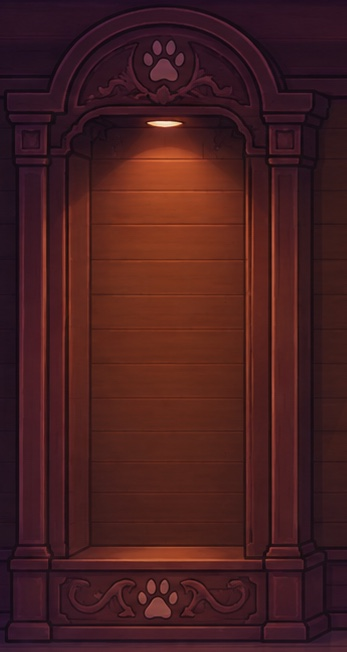
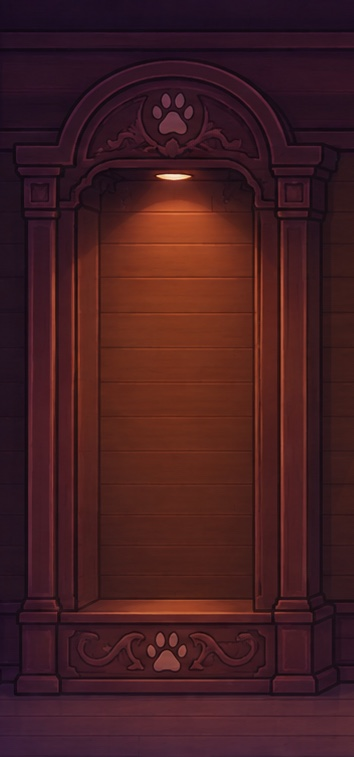
Remove backdrop-filter blur from ingredient/cocktail cards, update side arch bg
- backdrop-filter: blur(10px) removed from BarStorage's ingrCard and all
  three cocktail-list cards (AvailableCocktails, CanBeAvailableCocktails,
  FavouritesCocktails) — was smearing the new side-panel background behind
  the semi-transparent cards
- bar-side.jpg swapped for a new arch illustration (same paw-print motif)

Changed region(s): [[0.0, 0.0, 1.0, 1.0], [0.8934, 0.092, 1.0, 0.1227], [0.9222, 0.8282, 0.951, 0.8589]]

diff --git a/client/src/widgets/AvailableCocktails/AvailableCocktails.module.css b/client/src/widgets/AvailableCocktails/AvailableCocktails.module.css
@@ -26,7 +26,6 @@
   border: 1px solid rgb(255 255 255 / 20%);
   border-radius: 12px;
   box-shadow: 0 4px 6px rgb(0 0 0 / 10%);
-  backdrop-filter: blur(10px);
   transition: transform 0.3s ease, box-shadow 0.3s ease;
 }
 

diff --git a/client/src/widgets/BarStorage/BarStorage.module.css b/client/src/widgets/BarStorage/BarStorage.module.css
@@ -55,7 +55,6 @@
   border: 1px solid rgb(255 255 255 / 20%);
   border-radius: 12px;
   box-shadow: 0 4px 6px rgb(0 0 0 / 10%);
-  backdrop-filter: blur(10px);
   transition: transform 0.3s ease, box-shadow 0.3s ease;
 }
 

diff --git a/client/src/widgets/CanBeAvailableCocktails/CanBeAvailableCocktails.module.css b/client/src/widgets/CanBeAvailableCocktails/CanBeAvailableCocktails.module.css
@@ -26,7 +26,6 @@
   border: 1px solid rgb(255 255 255 / 20%);
   border-radius: 12px;
   box-shadow: 0 4px 6px rgb(0 0 0 / 10%);
-  backdrop-filter: blur(10px);
   transition: transform 0.3s ease, box-shadow 0.3s ease;
 }
 

diff --git a/client/src/widgets/FavouritesCocktails/FavouritesCocktails.module.css b/client/src/widgets/FavouritesCocktails/FavouritesCocktails.module.css
@@ -26,7 +26,6 @@
   border: 1px solid rgb(255 255 255 / 20%);
   border-radius: 12px;
   box-shadow: 0 4px 6px rgb(0 0 0 / 10%);
-  backdrop-filter: blur(10px);
   transition: transform 0.3s ease, box-shadow 0.3s ease;
 }
 
